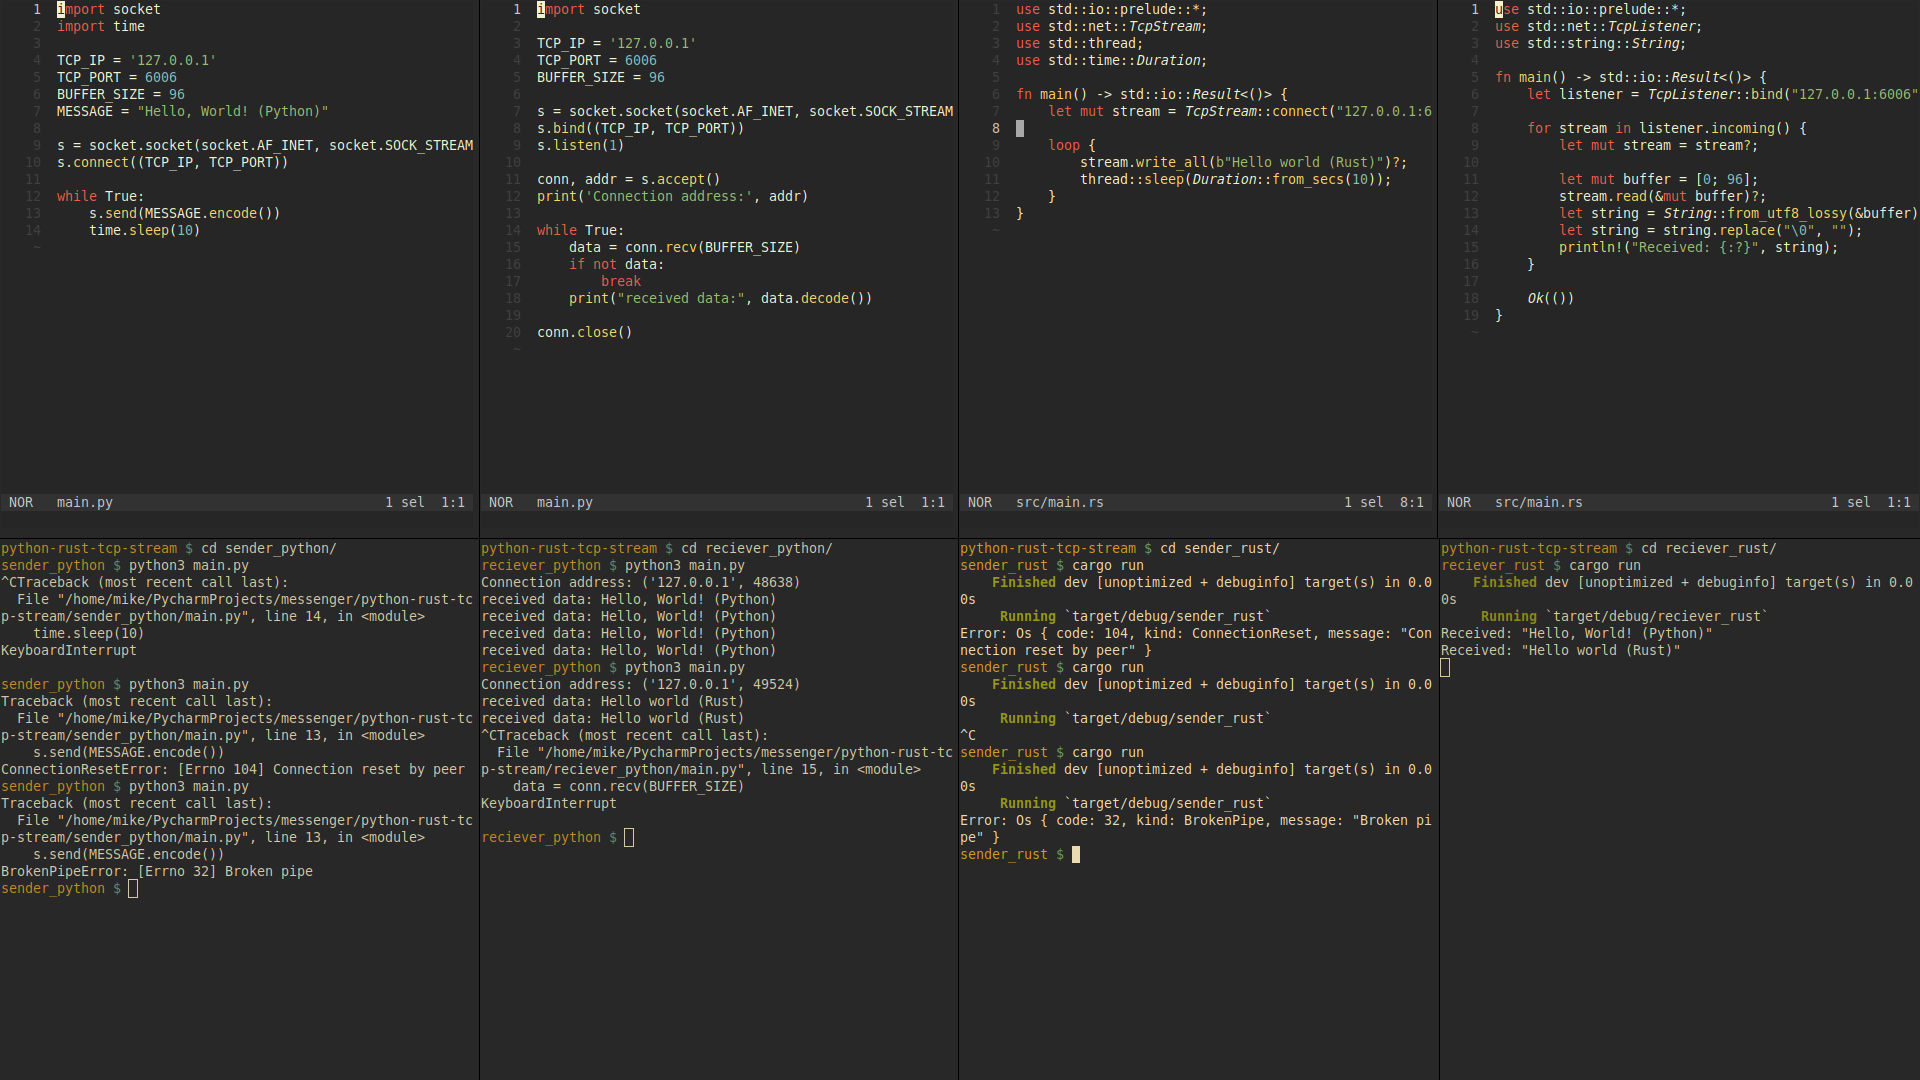
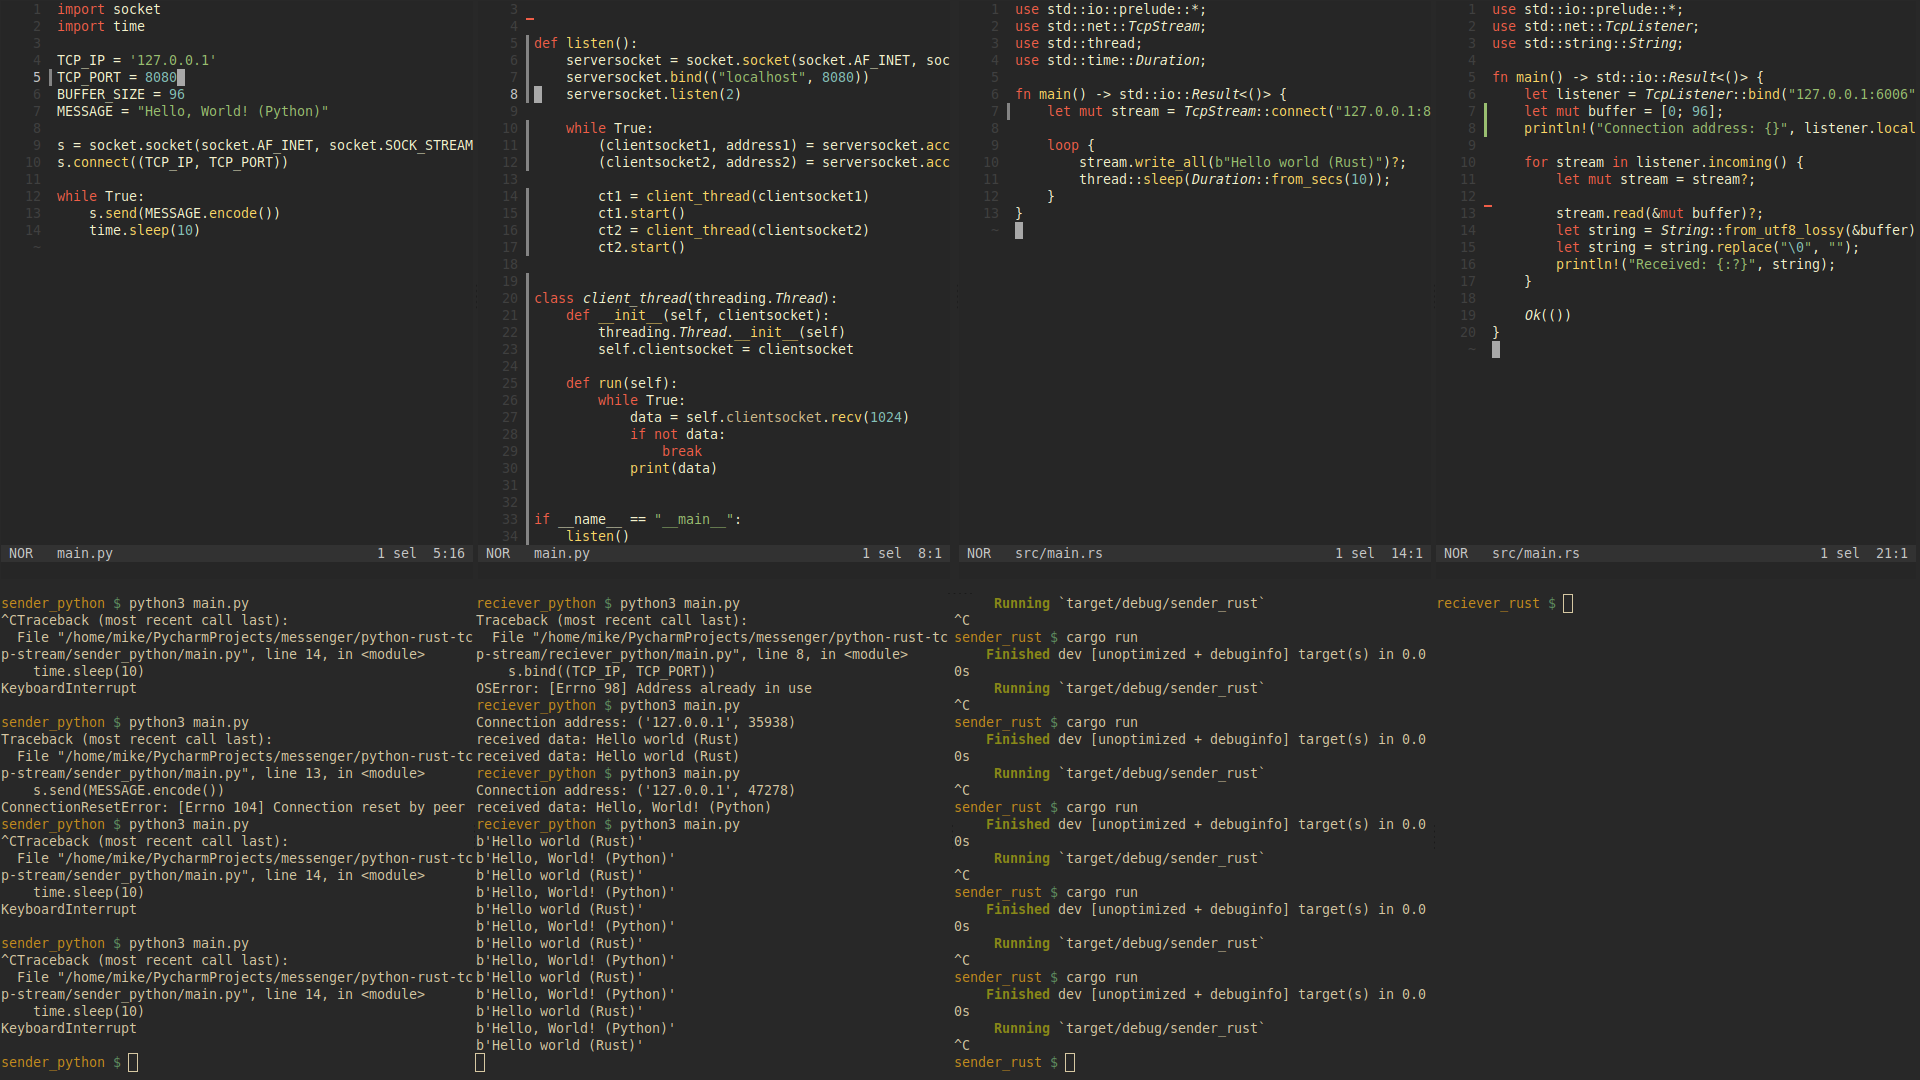
Python reciever fixed

diff --git a/reciever_python/main.py b/reciever_python/main.py
@@ -1,20 +1,34 @@
 import socket
+import threading
 
-TCP_IP = '127.0.0.1'
-TCP_PORT = 6006
-BUFFER_SIZE = 96
 
-s = socket.socket(socket.AF_INET, socket.SOCK_STREAM)
-s.bind((TCP_IP, TCP_PORT))
-s.listen(1)
+def listen():
+    serversocket = socket.socket(socket.AF_INET, socket.SOCK_STREAM)
+    serversocket.bind(("localhost", 8080))
+    serversocket.listen(2)
 
-conn, addr = s.accept()
-print('Connection address:', addr)
+    while True:
+        (clientsocket1, address1) = serversocket.accept()
+        (clientsocket2, address2) = serversocket.accept()
 
-while True:
-    data = conn.recv(BUFFER_SIZE)
-    if not data:
-        break
-    print("received data:", data.decode())
+        ct1 = client_thread(clientsocket1)
+        ct1.start()
+        ct2 = client_thread(clientsocket2)
+        ct2.start()
 
-conn.close()
+
+class client_thread(threading.Thread):
+    def __init__(self, clientsocket):
+        threading.Thread.__init__(self)
+        self.clientsocket = clientsocket
+
+    def run(self):
+        while True:
+            data = self.clientsocket.recv(1024)
+            if not data:
+                break
+            print(data)
+
+
+if __name__ == "__main__":
+    listen()

diff --git a/reciever_rust/src/main.rs b/reciever_rust/src/main.rs
@@ -4,11 +4,12 @@ use std::string::String;
 
 fn main() -> std::io::Result<()> {
     let listener = TcpListener::bind("127.0.0.1:6006")?;
+    let mut buffer = [0; 96];
+    println!("Connection address: {}", listener.local_addr()?);
 
     for stream in listener.incoming() {
         let mut stream = stream?;
 
-        let mut buffer = [0; 96];
         stream.read(&mut buffer)?;
         let string = String::from_utf8_lossy(&buffer);
         let string = string.replace("\0", "");

diff --git a/sender_rust/src/main.rs b/sender_rust/src/main.rs
@@ -4,7 +4,7 @@ use std::thread;
 use std::time::Duration;
 
 fn main() -> std::io::Result<()> {
-    let mut stream = TcpStream::connect("127.0.0.1:6006")?;
+    let mut stream = TcpStream::connect("127.0.0.1:8080")?;
 
     loop {
         stream.write_all(b"Hello world (Rust)")?;

diff --git a/sender_python/main.py b/sender_python/main.py
@@ -2,7 +2,7 @@ import socket
 import time
 
 TCP_IP = '127.0.0.1'
-TCP_PORT = 6006
+TCP_PORT = 8080
 BUFFER_SIZE = 96
 MESSAGE = "Hello, World! (Python)"
 
